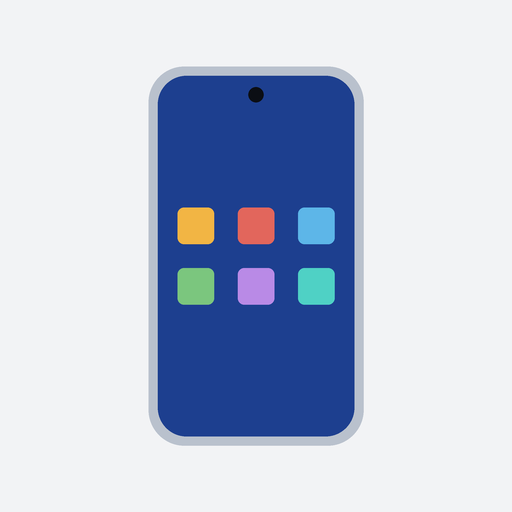
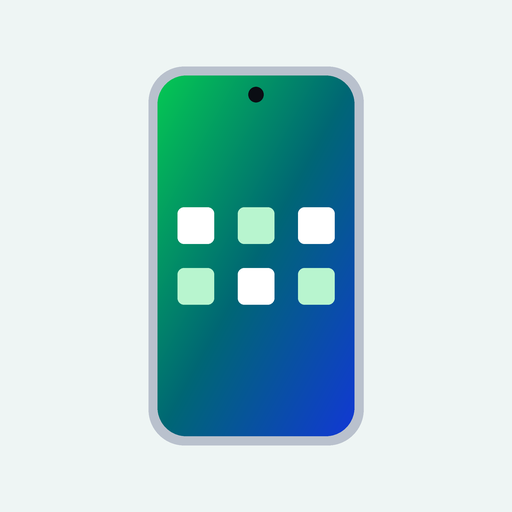
Paleta verde → azul en toda la plataforma
- Categorías distribuidas en el degradado, todas con contraste AA
- Botón principal, franja superior e ícono con el degradado de marca
- Pantalla y tapa del teléfono 3D/2D con la nueva paleta
- Fondo con tintes suaves verde y azul

Claude-Session: https://claude.ai/code/session_01UPzqSAisFkCA6SN8FXUHZw

Changed region(s): [[0.2812, 0.125, 0.7188, 0.875]]

diff --git a/css/estilos.css b/css/estilos.css
@@ -1,12 +1,19 @@
 /* ============ Base ============ */
 :root {
-  --fondo: #F2F3F5;
-  --fondo-2: #E6E8EC;
+  /* Paleta verde → azul (referencia #05F904 → #028B6A → #001EE2, ajustada a contraste AA) */
+  --verde: #00753F;
+  --verde-vivo: #05C853;
+  --petroleo: #006774;
+  --azul: #1238D6;
+  --azul-vivo: #2E5BFF;
+  --degradado: linear-gradient(100deg, var(--verde) 0%, var(--petroleo) 50%, var(--azul) 100%);
+  --fondo: #EEF5F4;
+  --fondo-2: #E3EAF6;
   --superficie: #FFFFFF;
   --texto: #171C26;
   --texto-2: #4E5768;
   --borde: #D9DCE2;
-  --acento: #1D3F8F;
+  --acento: #1238D6;
   --acento-txt: #FFFFFF;
   --sombra: 0 10px 30px rgba(20, 28, 45, .14), 0 2px 6px rgba(20, 28, 45, .08);
   --radio: 14px;
@@ -21,7 +28,11 @@ html { -webkit-text-size-adjust: 100%; text-size-adjust: 100%; }
 body {
   font-family: var(--fuente);
   color: var(--texto);
-  background: radial-gradient(120% 80% at 50% 40%, #FAFAFB 0%, var(--fondo) 55%, var(--fondo-2) 100%);
+  background: #EEF4F5;
+  background:
+    radial-gradient(70% 55% at 0% 100%, rgba(5, 200, 83, .10) 0%, transparent 70%),
+    radial-gradient(70% 55% at 100% 0%, rgba(46, 91, 255, .10) 0%, transparent 70%),
+    radial-gradient(120% 80% at 50% 40%, #FAFCFC 0%, var(--fondo) 55%, var(--fondo-2) 100%);
   display: flex; flex-direction: column;
   height: 100vh; height: 100dvh; overflow: hidden;
   overscroll-behavior: none;
@@ -31,9 +42,10 @@ body {
 button { font: inherit; color: inherit; cursor: pointer; touch-action: manipulation; -webkit-user-select: none; user-select: none; }
 .saltar { position: absolute; left: -999px; top: 8px; z-index: 50; background: var(--superficie); padding: 8px 12px; border-radius: 8px; }
 .saltar:focus { left: 8px; }
-:focus-visible { outline: 3px solid #2457D6; outline-offset: 2px; }
+:focus-visible { outline: 3px solid var(--azul); outline-offset: 2px; }
 
 /* ============ Barra superior ============ */
+.barra::before { content: ""; position: absolute; left: 0; right: 0; top: 0; height: 3px; background: var(--degradado); }
 .barra {
   display: flex; align-items: center; justify-content: space-between; gap: 12px;
   padding: max(10px, env(safe-area-inset-top)) 16px 8px;
@@ -42,7 +54,7 @@ button { font: inherit; color: inherit; cursor: pointer; touch-action: manipulat
 .marca { display: flex; align-items: center; gap: 10px; min-width: 0; }
 .marca-icono {
   width: 30px; height: 30px; border-radius: 9px; flex: none;
-  background: linear-gradient(145deg, #2A3B57, #111827);
+  background: linear-gradient(145deg, var(--verde-vivo), var(--petroleo) 50%, var(--azul));
   box-shadow: inset 0 0 0 3px #CBD2DC;
 }
 .barra h1 { font-size: 1.05rem; line-height: 1.2; margin: 0; letter-spacing: -.01em; }
@@ -56,7 +68,7 @@ button { font: inherit; color: inherit; cursor: pointer; touch-action: manipulat
 }
 .btn:active { transform: scale(.97); }
 .btn svg { width: 16px; height: 16px; fill: currentColor; }
-.btn-primario { background: var(--acento); color: var(--acento-txt); }
+.btn-primario { background: var(--azul); background-image: var(--degradado); color: var(--acento-txt); box-shadow: 0 4px 14px rgba(18, 56, 214, .22); }
 .btn-sec { background: var(--superficie); border-color: var(--borde); color: var(--texto); }
 .btn-sec:disabled { opacity: .45; cursor: default; }
 .btn-texto { background: none; border: 0; color: var(--texto-2); font-size: .78rem; text-decoration: underline; padding: 10px 4px; min-height: 40px; }
@@ -90,7 +102,7 @@ button { font: inherit; color: inherit; cursor: pointer; touch-action: manipulat
   transition: opacity .25s ease, box-shadow .15s ease;
 }
 .etiqueta::before { content: ""; width: 8px; height: 8px; flex: none; border-radius: 50%; background: var(--c); }
-@media (hover: hover) { .etiqueta:hover { box-shadow: 0 4px 14px rgba(20,28,45,.18); } .btn-primario:hover { background: #17336F; } }
+@media (hover: hover) { .etiqueta:hover { box-shadow: 0 4px 14px rgba(20,28,45,.18); } .btn-primario:hover { filter: brightness(1.08) saturate(1.05); } }
 .etiqueta:active { transform-origin: center; filter: brightness(.96); }
 .etiqueta.der { flex-direction: row; }
 .etiqueta.izq { border-left-width: 1px; border-right: 4px solid var(--c); flex-direction: row-reverse; text-align: right; padding: 5px 7px 5px 9px; }
@@ -99,12 +111,12 @@ button { font: inherit; color: inherit; cursor: pointer; touch-action: manipulat
 
 .marcador {
   position: absolute; left: 0; top: 0; width: 26px; height: 26px; margin: -13px 0 0 -13px;
-  border-radius: 50%; border: 3px solid var(--c, #2457D6); pointer-events: none; opacity: 0;
+  border-radius: 50%; border: 3px solid var(--c, #1238D6); pointer-events: none; opacity: 0;
   transition: opacity .3s;
 }
 .marcador.activo { opacity: 1; animation: pulso 1.6s ease-out infinite; }
 @keyframes pulso {
-  0% { box-shadow: 0 0 0 0 rgba(36, 87, 214, .45); box-shadow: 0 0 0 0 color-mix(in srgb, var(--c, #2457D6) 55%, transparent); }
+  0% { box-shadow: 0 0 0 0 rgba(18, 56, 214, .45); box-shadow: 0 0 0 0 color-mix(in srgb, var(--c, #1238D6) 55%, transparent); }
   100% { box-shadow: 0 0 0 16px transparent; }
 }
 
@@ -141,7 +153,7 @@ button { font: inherit; color: inherit; cursor: pointer; touch-action: manipulat
 /* ============ Popup ============ */
 .fondo-popup { position: fixed; top: 0; right: 0; bottom: 0; left: 0; z-index: 20; background: rgba(15, 20, 30, .18); }
 .popup {
-  --c: #2457D6;
+  --c: #1238D6;
   position: fixed; z-index: 21; left: 0; right: 0; bottom: 0;
   max-height: 66vh; max-height: 66dvh; display: flex;
   transition: transform .2s ease; flex-direction: column;

diff --git a/js/escena3d.js b/js/escena3d.js
@@ -9,8 +9,8 @@ import {
   ExtrudeGeometry, ShapeGeometry, BoxGeometry, CylinderGeometry, PlaneGeometry,
   MeshStandardMaterial, MeshBasicMaterial, HemisphereLight, DirectionalLight,
   CanvasTexture, SRGBColorSpace, Vector3, Matrix4, Euler, Quaternion, MathUtils
-} from './vendor/three.min.js?v=20261030b';
-import { zonaDe } from './zonas.js?v=20261030b';
+} from './vendor/three.min.js?v=20261030c';
+import { zonaDe } from './zonas.js?v=20261030c';
 
 const FOV = 32;
 const T = Math.tan(MathUtils.degToRad(FOV / 2));
@@ -41,8 +41,12 @@ function texturaPantalla() {
   const g = c.getContext('2d');
   // Fondo de pantalla abstracto
   const fondo = g.createLinearGradient(0, 0, W, H);
-  fondo.addColorStop(0, '#1C2E52'); fondo.addColorStop(.55, '#22597A'); fondo.addColorStop(1, '#1A9A93');
+  fondo.addColorStop(0, '#04B84C'); fondo.addColorStop(.5, '#037A6E'); fondo.addColorStop(1, '#1236D8');
   g.fillStyle = fondo; g.fillRect(0, 0, W, H);
+  // Velo oscuro superior para que el reloj y la barra de estado se lean bien
+  const velo = g.createLinearGradient(0, 0, 0, H * .45);
+  velo.addColorStop(0, 'rgba(4, 20, 40, .45)'); velo.addColorStop(1, 'rgba(4, 20, 40, 0)');
+  g.fillStyle = velo; g.fillRect(0, 0, W, H * .45);
   g.globalAlpha = .18; g.fillStyle = '#ffffff';
   for (let i = 0; i < 3; i++) {
     g.beginPath(); g.ellipse(W * (.2 + i * .35), H * (.25 + i * .22), 260, 120, -.5, 0, Math.PI * 2); g.fill();
@@ -56,13 +60,13 @@ function texturaPantalla() {
   g.textAlign = 'center'; g.font = '300 128px system-ui, sans-serif'; g.fillText('10:08', W / 2, 270);
   g.font = '500 28px system-ui, sans-serif'; g.globalAlpha = .85; g.fillText('Viernes, 30 de octubre', W / 2, 320); g.globalAlpha = 1;
   // Íconos genéricos
-  const colores = ['#F2B544', '#E2665C', '#5DB6E8', '#7BC67E', '#B98AE6', '#F08BB3', '#4FD1C5', '#FFFFFF', '#9DB2CE', '#F6D365', '#7AA7FF', '#FF9E6D'];
+  const colores = ['#FFFFFF', '#7CF0A6', '#5FD3C4', '#7FB2FF', '#B8F5CF', '#FFFFFF', '#9DE7DD', '#A9C4FF', '#5FE38E', '#C9D8FF', '#FFFFFF', '#4FC3B0'];
   const tam = 84, gap = (W - 4 * tam) / 5;
   colores.forEach((col, i) => {
     const fx = i % 4, fy = Math.floor(i / 4);
     const x = gap + fx * (tam + gap), y = 470 + fy * (tam + 58);
     g.fillStyle = col; redondo(g, x, y, tam, tam, 22); g.fill();
-    g.fillStyle = 'rgba(0,0,0,.18)';
+    g.fillStyle = 'rgba(4,40,60,.28)';
     if (i % 3 === 0) { g.beginPath(); g.arc(x + tam / 2, y + tam / 2, 20, 0, Math.PI * 2); g.fill(); }
     else if (i % 3 === 1) { redondo(g, x + 24, y + 24, 36, 36, 6); g.fill(); }
     else { g.beginPath(); g.moveTo(x + 42, y + 20); g.lineTo(x + 64, y + 62); g.lineTo(x + 20, y + 62); g.fill(); }
@@ -70,7 +74,7 @@ function texturaPantalla() {
   });
   // Dock
   g.fillStyle = 'rgba(255,255,255,.18)'; redondo(g, 28, H - 170, W - 56, 120, 40); g.fill();
-  ['#7BC67E', '#5DB6E8', '#F2B544', '#E2665C'].forEach((col, i) => { g.fillStyle = col; redondo(g, 58 + i * 108, H - 152, 84, 84, 22); g.fill(); });
+  ['#5FE38E', '#5FD3C4', '#7FB2FF', '#FFFFFF'].forEach((col, i) => { g.fillStyle = col; redondo(g, 58 + i * 108, H - 152, 84, 84, 22); g.fill(); });
   g.fillStyle = 'rgba(255,255,255,.75)'; redondo(g, W / 2 - 70, H - 26, 140, 7, 4); g.fill();
   const t = new CanvasTexture(c);
   t.colorSpace = SRGBColorSpace; t.anisotropy = 4;
@@ -94,11 +98,11 @@ function construirTelefono() {
   const tel = new Group();
   const m = {
     marco: new MeshStandardMaterial({ color: 0xB9C1CD, metalness: .55, roughness: .32 }),
-    tapa: new MeshStandardMaterial({ color: 0x31415A, metalness: .2, roughness: .38, transparent: true, opacity: 1 }),
+    tapa: new MeshStandardMaterial({ color: 0x0F3A5C, metalness: .2, roughness: .38, transparent: true, opacity: 1 }),
     negro: new MeshStandardMaterial({ color: 0x0B0E14, metalness: .3, roughness: .25 }),
     lente: new MeshStandardMaterial({ color: 0x141A26, metalness: .9, roughness: .12 }),
     aro: new MeshStandardMaterial({ color: 0xD3D9E2, metalness: .8, roughness: .22 }),
-    modulo: new MeshStandardMaterial({ color: 0x26344A, metalness: .35, roughness: .25 }),
+    modulo: new MeshStandardMaterial({ color: 0x0B2A4A, metalness: .35, roughness: .25 }),
     placa: new MeshStandardMaterial({ color: 0x1E4D3D, roughness: .7 }),
     chip: new MeshStandardMaterial({ color: 0x9AA4B2, metalness: .7, roughness: .3 }),
     chipOsc: new MeshStandardMaterial({ color: 0x2A2F38, roughness: .5 }),

diff --git a/js/vista2d.js b/js/vista2d.js
@@ -3,14 +3,14 @@
    Mismo contenido, mismas etiquetas y popups. Al seleccionar,
    el dibujo se acerca a la zona y marca el punto exacto.
    ============================================================ */
-import { zonaDe } from './zonas.js?v=20261030b';
+import { zonaDe } from './zonas.js?v=20261030c';
 
 const FRENTE = `
 <svg viewBox="0 0 100 205" aria-hidden="true">
   <rect x="2" y="2" width="96" height="201" rx="15" fill="#B9C1CD"/>
   <rect x="4" y="4" width="92" height="197" rx="13" fill="#05070B"/>
   <rect x="7" y="7" width="86" height="191" rx="11" fill="url(#gf)"/>
-  <defs><linearGradient id="gf" x1="0" y1="0" x2="1" y2="1"><stop offset="0" stop-color="#1C2E52"/><stop offset=".55" stop-color="#22597A"/><stop offset="1" stop-color="#1A9A93"/></linearGradient></defs>
+  <defs><linearGradient id="gf" x1="0" y1="0" x2="1" y2="1"><stop offset="0" stop-color="#04B84C"/><stop offset=".5" stop-color="#037A6E"/><stop offset="1" stop-color="#1236D8"/></linearGradient></defs>
   <circle cx="50" cy="12" r="2.6" fill="#0B0E14"/>
   <text x="50" y="44" text-anchor="middle" fill="#fff" font-size="15" font-weight="300" font-family="system-ui,sans-serif">10:08</text>
   <g fill="#fff" opacity=".85">${Array.from({ length: 12 }, (_, i) => `<rect x="${14 + (i % 4) * 19}" y="${72 + Math.floor(i / 4) * 24}" width="13" height="13" rx="3.5"/>`).join('')}</g>
@@ -25,7 +25,7 @@ const FRENTE = `
 const REVERSO = `
 <svg viewBox="0 0 100 205" aria-hidden="true">
   <rect x="2" y="2" width="96" height="201" rx="15" fill="#B9C1CD"/>
-  <rect x="4" y="4" width="92" height="197" rx="13" fill="#31415A"/>
+  <rect x="4" y="4" width="92" height="197" rx="13" fill="#0F3A5C"/>
   <g opacity=".55" fill="none" stroke="#CFE0FF" stroke-width="1" stroke-dasharray="2 2">
     <rect x="9" y="8" width="82" height="70" rx="4"/>
     <rect x="22" y="22" width="22" height="22" rx="2"/>
@@ -34,7 +34,7 @@ const REVERSO = `
     <rect x="9" y="84" width="82" height="112" rx="6"/>
   </g>
   <text x="50" y="146" text-anchor="middle" fill="#CFE0FF" opacity=".7" font-size="7" font-family="system-ui,sans-serif">BATERÍA</text>
-  <rect x="52" y="12" width="38" height="50" rx="10" fill="#26344A"/>
+  <rect x="52" y="12" width="38" height="50" rx="10" fill="#0B2A4A"/>
   <circle cx="71" cy="24" r="8.5" fill="#D3D9E2"/><circle cx="71" cy="24" r="6.6" fill="#141A26"/>
   <circle cx="71" cy="46" r="8.5" fill="#D3D9E2"/><circle cx="71" cy="46" r="6.6" fill="#141A26"/>
   <circle cx="58" cy="35" r="2.6" fill="#FFF3D1"/>

diff --git a/index.html b/index.html
@@ -5,7 +5,7 @@
   <meta name="viewport" content="width=device-width, initial-scale=1, viewport-fit=cover">
   <title>Conoce tu equipo · Especificaciones de smartphone</title>
   <meta name="description" content="Herramienta de formación: especificaciones de un smartphone explicadas para asesores comerciales.">
-  <meta name="theme-color" content="#F2F3F5">
+  <meta name="theme-color" content="#EEF5F4">
   <meta name="format-detection" content="telephone=no">
   <meta name="apple-mobile-web-app-capable" content="yes">
   <meta name="mobile-web-app-capable" content="yes">
@@ -13,8 +13,8 @@
   <link rel="apple-touch-icon" href="icono-180.png">
   <link rel="manifest" href="manifest.webmanifest">
   <link rel="icon" href="favicon.svg" type="image/svg+xml">
-  <link rel="modulepreload" href="js/app.js?v=20261030b">
-  <link rel="stylesheet" href="css/estilos.css?v=20261030b">
+  <link rel="modulepreload" href="js/app.js?v=20261030c">
+  <link rel="stylesheet" href="css/estilos.css?v=20261030c">
 </head>
 <body>
   <a class="saltar" href="#leyenda">Saltar a la lista de especificaciones</a>
@@ -87,6 +87,6 @@
 
   <noscript><p class="sin-js">Esta herramienta necesita JavaScript activado.</p></noscript>
   <script nomodule>document.getElementById("cargando").innerHTML="<p class=\"aviso\" style=\"position:static\">Tu navegador es muy antiguo para esta herramienta. Actualízalo o ábrela en Chrome, Safari, Edge o Firefox recientes.</p>";</script>
-  <script type="module" src="js/app.js?v=20261030b"></script>
+  <script type="module" src="js/app.js?v=20261030c"></script>
 </body>
 </html>

diff --git a/js/app.js b/js/app.js
@@ -219,7 +219,7 @@ async function montarVista(modo) {
   };
   if (modo === '3d') {
     try {
-      const { crearEscena3D } = await import('./escena3d.js?v=20261030b');
+      const { crearEscena3D } = await import('./escena3d.js?v=20261030c');
       // Lienzo nuevo en cada montaje (un contexto WebGL liberado no se reutiliza)
       const viejo = $('#lienzo'); const nuevo = viejo.cloneNode(false); viejo.replaceWith(nuevo);
       estado.vista = await crearEscena3D({
@@ -233,7 +233,7 @@ async function montarVista(modo) {
       return montarVista('2d');
     }
   } else {
-    const { crearVista2D } = await import('./vista2d.js?v=20261030b');
+    const { crearVista2D } = await import('./vista2d.js?v=20261030c');
     estado.vista = crearVista2D({ ...comunes, contenedor: $('#vista2d') });
     estado.modo = '2d';
   }
